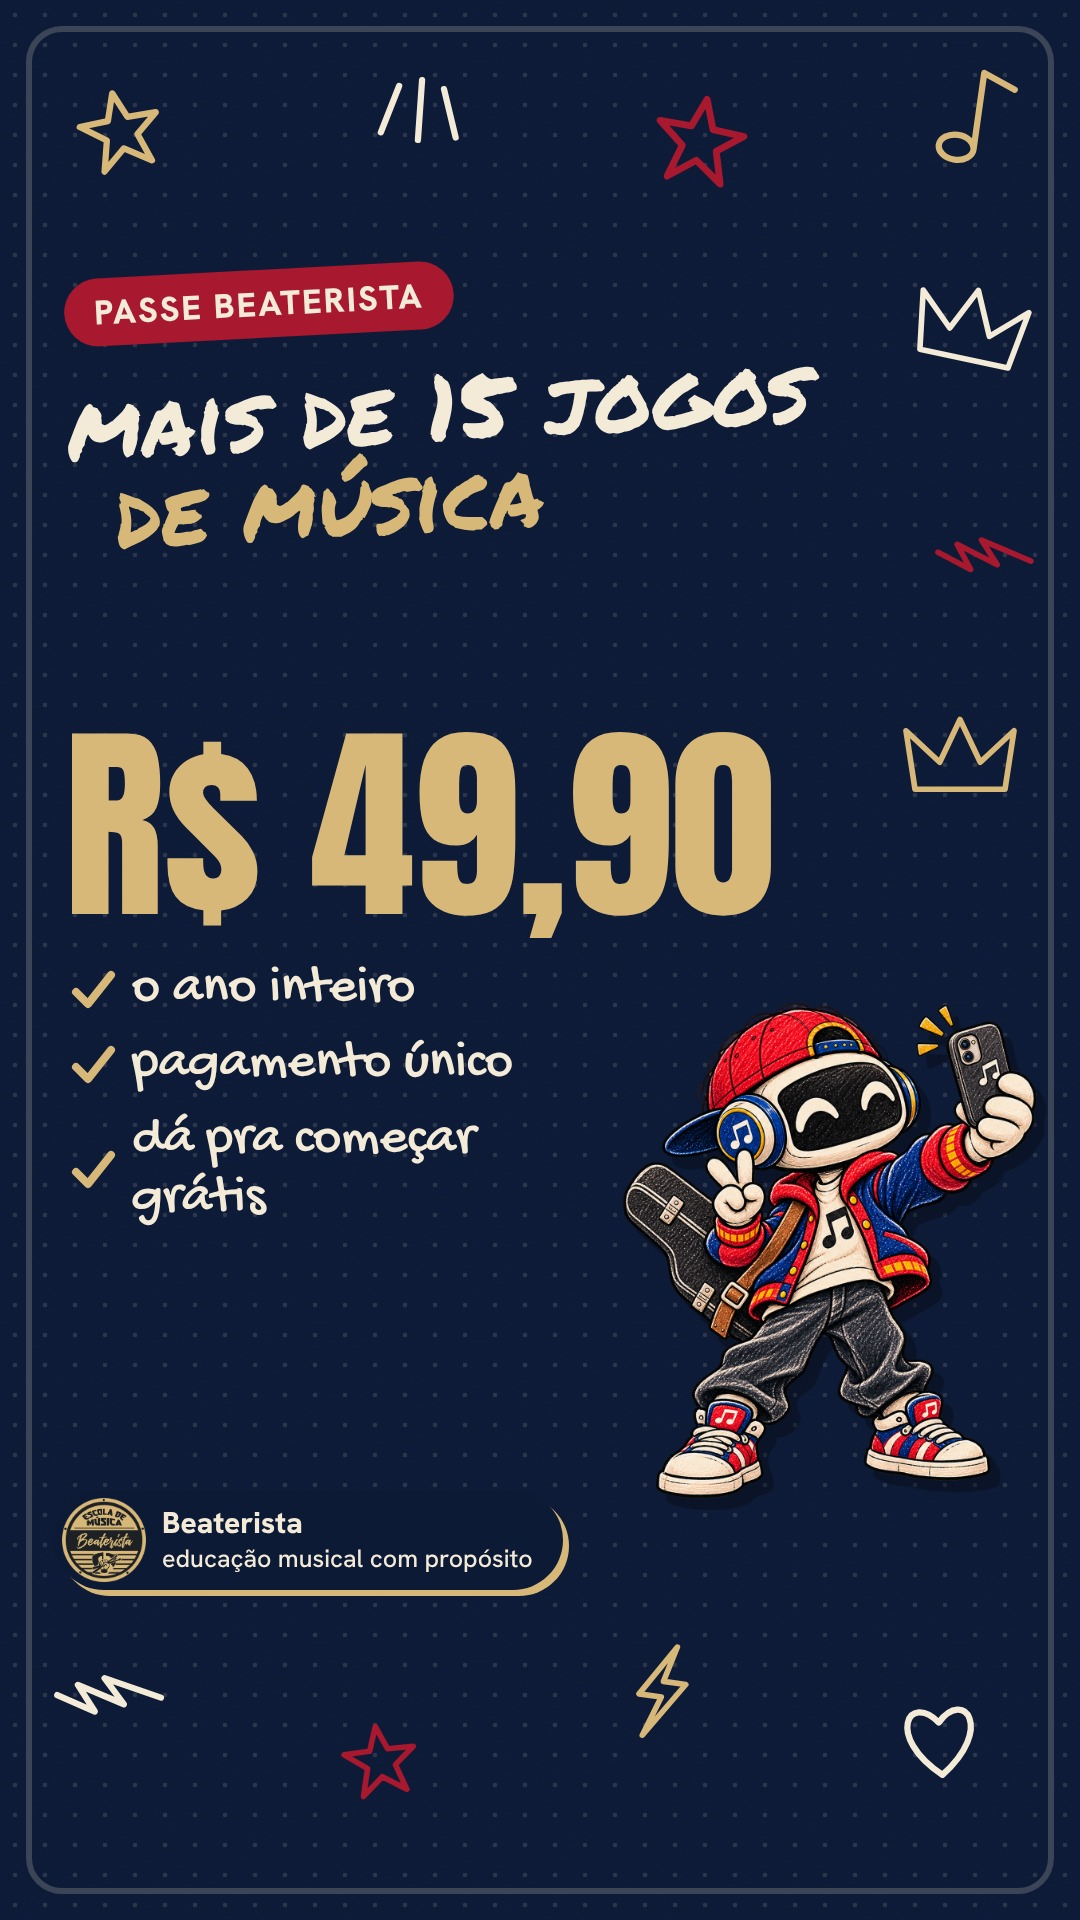
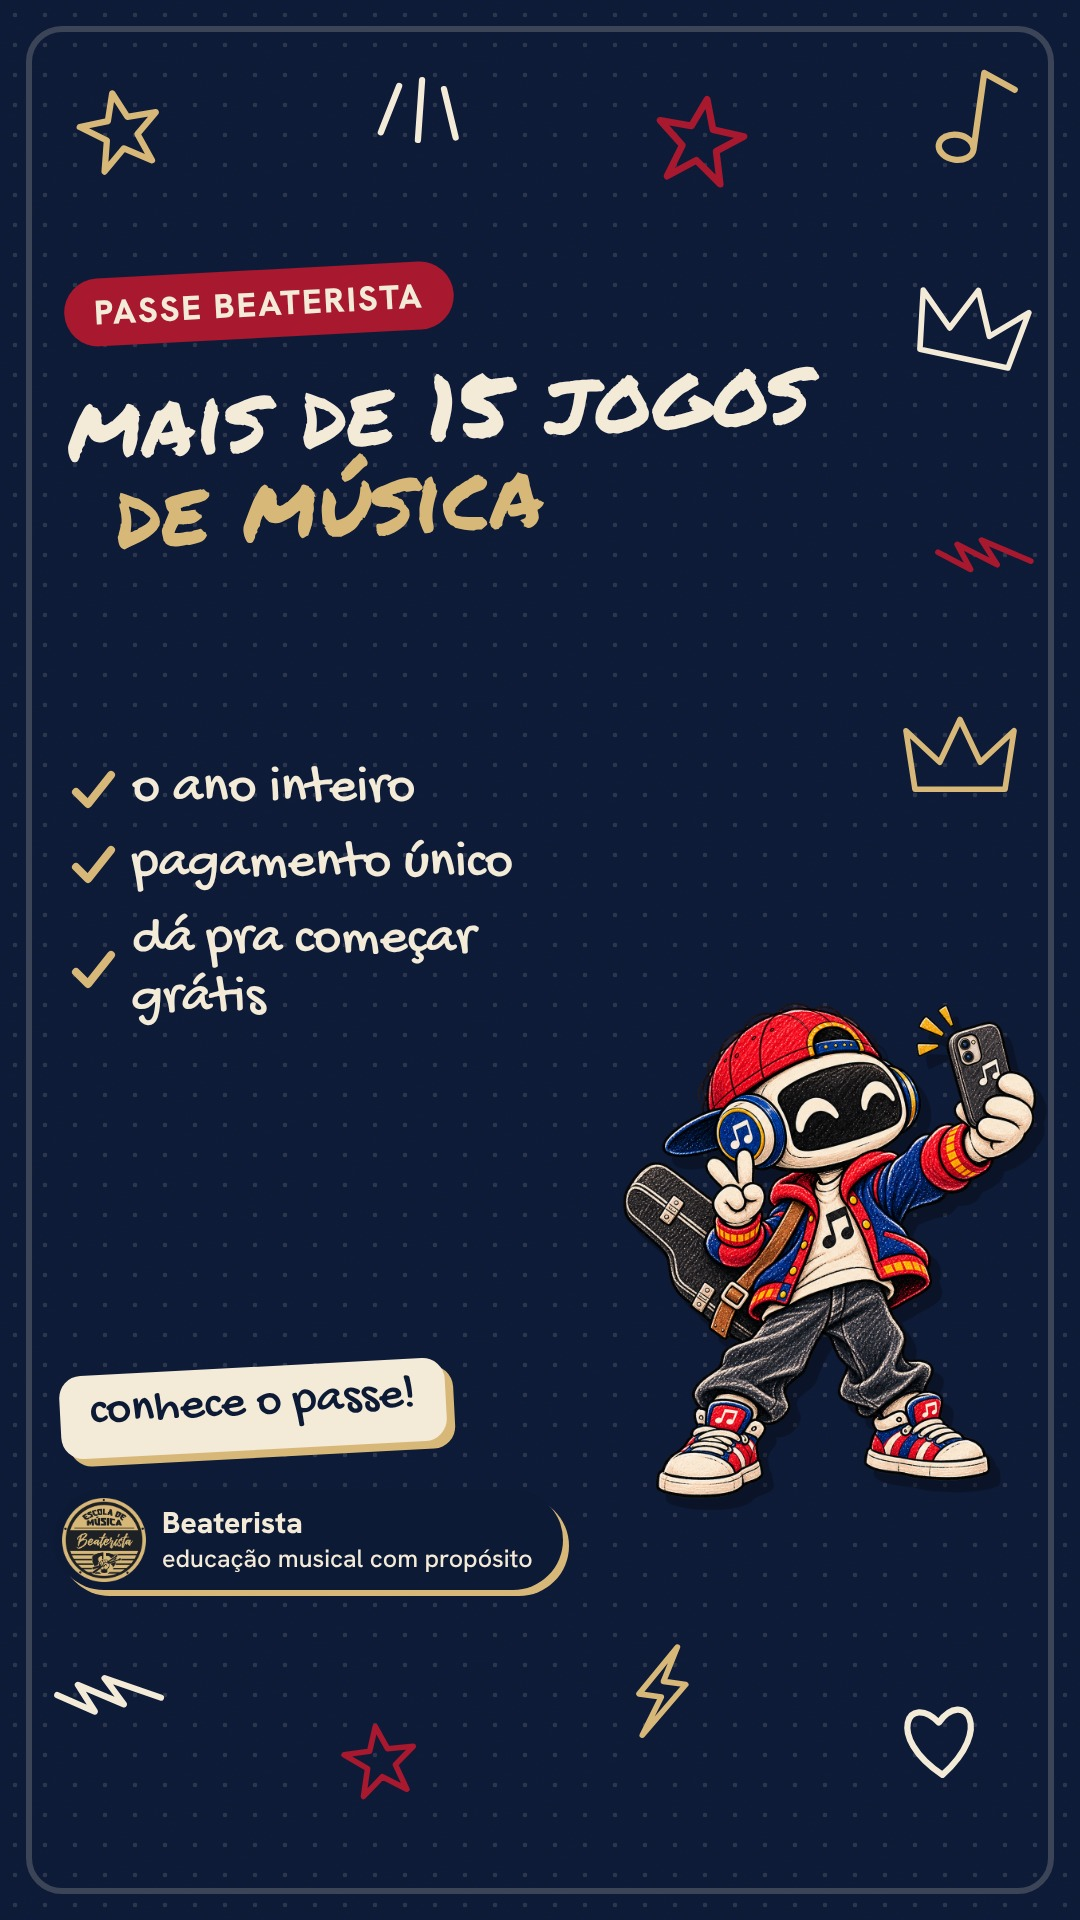
Reel 12 com cor natural (neutro); sem gibi, preço e data no kit e nos stories de venda
Claude-Session: https://claude.ai/code/session_017Ekti4WphxnBKQZ26FjJeN

Changed region(s): [[0.0611, 0.375, 0.7333, 0.6562], [0.0306, 0.6875, 0.4278, 0.7812]]

diff --git a/scripts/kit-perfil-jogos.py b/scripts/kit-perfil-jogos.py
@@ -23,13 +23,11 @@ DIAS = [
  ('lendo partitura brincando', [('reel', ['reels/12_achar_na_pauta.mp4'], 'seu filho lendo partitura. e achando que é jogo 🎼 começa grátis, link na bio.', '')]),
  ('o que tem no livro de colorir', [('post', ['colorir/colorir-post-2-o-que-tem.jpg'], 'o que tem no livro de colorir do paul? baterista, guitarrista, a banda inteira, percussão corporal e uma página pra você se desenhar na banda. 50 páginas, link na bio.', ''),
    ('story', ['colorir/colorir-story-2-pinte.jpg'], '', f'figurinha de link: {HOT}')]),
- ('o gibi do Paul', [('carrossel', car('gibi_carrossel', 7), 'o paul virou gibi 🥁 20 histórias em quadrinhos, 20 desafios da semana e uma página pra criança desenhar a dela. arrasta pra ler uma inteira. R$ 9,90, link na bio.', 'SÓ postar depois que o gibi estiver na Hotmart com o link na bio.'),
-   ('story', ['stories/story_gibi_1.jpg'], '', 'figurinha de link pro gibi.')]),
- ('apostila pela metade do preço', [('reel', ['reels/21_apostila_bateria_start.mp4'], 'a apostila do meu curso de bateria pela metade do preço: R$ 14,90, só até 30 de novembro. 44 páginas pra começar do zero. link na bio.', 'TEM PRAZO: postar até 30/nov. depois disso, pular este dia.'),
+ ('apostila pela metade do preço', [('reel', ['reels/21_apostila_bateria_start.mp4'], 'a apostila do meu curso de bateria: 44 páginas pra começar do zero. link na bio.', ''),
    ('story', ['stories/story_apostila_prazo.jpg'], '', 'figurinha de link pra apostila na lojinha.')]),
- ('o que tem no passe', [('carrossel', car('passe_carrossel', 7), 'o que tem dentro do passe beaterista? arrasta pra ver. R$ 49,90 por 12 meses, link na bio.', ''),
+ ('o que tem no passe', [('carrossel', car('passe_carrossel', 7), 'o que tem dentro do passe beaterista? arrasta pra ver. link na bio.', ''),
    ('story', ['stories/story_passe.jpg'], '', 'figurinha de link pro app.')]),
- ('combo de apostilas', [('reel', ['reels/14_combo_4_apostilas.mp4'], '4 apostilas pra aprender música brincando: ritmo, harmonia, 48 atividades e jogo da memória. combo por R$ 79,90, link na bio.', '')]),
+ ('combo de apostilas', [('reel', ['reels/14_combo_4_apostilas.mp4'], '4 apostilas pra aprender música brincando: ritmo, harmonia, 48 atividades e jogo da memória. tudo num combo só, link na bio.', '')]),
 ]
 # série "a Bea e a escola" (fotos novas) entra intercalada; a apostila sobe na fila por causa do prazo (30/nov)
 B = lambda n: [f'apresentacao/serie-bea/bea-{n}.jpg']
@@ -53,7 +51,7 @@ open(p0 + '/LEIA.txt', 'w').write("""PERFIL @jogos.beaterista: arrumar antes do 
    👇 jogue grátis e explore os materiais
 2. LINK DA BIO: jogos.beaterista.com.br
 3. DESTAQUES: criar com as capas da pasta "capas dos destaques" (o Instagram mostra só o círculo do meio).
-   ordem: o que é · jogos · pais · profs · álbum · lojinha · gibi
+   ordem: o que é · jogos · pais · profs · álbum · lojinha
 4. FIXADOS: os 3 posts de apresentação (dias 01, 02 e 03) ficam fixados no topo, nessa ordem.
 5. HORÁRIO: postar na hora em que seus seguidores estão online (Insights do Instagram ou "melhores horários" do Metricool).
 """)
@@ -85,10 +83,10 @@ h1{font-size:30pt;margin:0 0 4pt}h2{font-size:15pt;margin:0 0 6pt;color:#a8182e}
 .pc{display:flex;gap:5mm;margin-top:3mm}.pc img{width:26mm;border-radius:2mm;border:1pt solid #999;align-self:flex-start}.t{display:inline-block;background:#a8182e;color:#fff;border-radius:99px;padding:1pt 8pt;font-size:9.5pt;font-weight:700;text-transform:uppercase}
 .l{background:#f4ead8;border-radius:2mm;padding:3mm;margin:2mm 0;font-size:11pt}.o{font-size:10pt;color:#a8182e;font-weight:700}.a{font-size:9.5pt;color:#555}li{margin-bottom:2mm}.q{break-before:page}</style>
 <div class="capa"><p>KIT DO PERFIL</p><h1>@jogos.beaterista</h1><p>a ordem dos primeiros 18 dias: o que postar, em que sequência, com a legenda pronta.</p><p style="font-size:11pt;margin-top:20mm">Beaterista escola de música · jogos.beaterista.com.br</p></div>
-<div class="q"><h2>antes de postar</h2><ol><li><b>bio:</b> a sua já está boa (jogos musicais com o Robôterista Paul · aprenda na tela, depois mão na massa · jogue grátis e explore os materiais).</li><li><b>link da bio:</b> jogos.beaterista.com.br</li><li><b>destaques:</b> criar com as capas da pasta "00 - perfil". ordem: o que é · jogos · pais · profs · álbum · lojinha · gibi.</li><li><b>fixados:</b> os posts dos dias 01, 02 e 03 ficam fixados no topo. quem chega no perfil entende em 3 quadros: quem é o Paul, o que é a Beaterista e quem é você.</li><li><b>horário:</b> use os horários em que os seguidores estão online (Insights do Instagram ou "melhores horários" do Metricool).</li></ol>
-<h2>a lógica da ordem</h2><ol><li><b>dias 01 a 03, apresentação:</b> o Paul, a escola e a Bea. nada de venda.</li><li><b>dias 04 a 10, o que é e pra quem é:</b> o jogo funcionando, o lema da escola, o que cada jogo ensina, a história do nome. quase sem vender.</li><li><b>dias 11 a 18, os materiais:</b> livro de colorir, gibi, passe e combo, intercalados com posts seus (eu ensino o que eu toco, não é só bateria).</li></ol>
+<div class="q"><h2>antes de postar</h2><ol><li><b>bio:</b> a sua já está boa (jogos musicais com o Robôterista Paul · aprenda na tela, depois mão na massa · jogue grátis e explore os materiais).</li><li><b>link da bio:</b> jogos.beaterista.com.br</li><li><b>destaques:</b> criar com as capas da pasta "00 - perfil". ordem: o que é · jogos · pais · profs · álbum · lojinha.</li><li><b>fixados:</b> os posts dos dias 01, 02 e 03 ficam fixados no topo. quem chega no perfil entende em 3 quadros: quem é o Paul, o que é a Beaterista e quem é você.</li><li><b>horário:</b> use os horários em que os seguidores estão online (Insights do Instagram ou "melhores horários" do Metricool).</li></ol>
+<h2>a lógica da ordem</h2><ol><li><b>dias 01 a 03, apresentação:</b> o Paul, a escola e a Bea. nada de venda.</li><li><b>dias 04 a 10, o que é e pra quem é:</b> o jogo funcionando, o lema da escola, o que cada jogo ensina, a história do nome. quase sem vender.</li><li><b>dias 11 em diante, os materiais:</b> livro de colorir, apostila, passe e combo, intercalados com posts seus (eu ensino o que eu toco, não é só bateria).</li></ol>
 <h2>como usar o zip</h2><p>cada pasta é um dia. dentro, os arquivos estão numerados na ordem de postar e o <b>LEGENDA.txt</b> traz o texto pronto pra copiar. carrossel: subir as imagens na ordem dos números.</p>
-<h2>avisos</h2><ul><li><b>dia 15 (gibi):</b> só depois de o gibi estar na Hotmart.</li><li><b>dia 07 (apostila):</b> a promoção vale até 30/nov, por isso ela vem cedo na fila.</li><li><b>livro de colorir:</b> o link direto é ''' + HOT + '''</li><li>a conta está com restrição temporária pra conectar aplicativos: enquanto isso, postar na mão. os posts em si não são afetados.</li></ul></div><div class="q"></div>''']
+<h2>avisos</h2><ul><li>sem preço e sem data em nenhuma peça (pedido da Bea); o gibi/jornal não entra no kit.</li><li><b>livro de colorir:</b> o link direto é ''' + HOT + '''</li><li>a conta está com restrição temporária pra conectar aplicativos: enquanto isso, postar na mão. os posts em si não são afetados.</li></ul></div><div class="q"></div>''']
 for i, tit, cel in linhas:
     H.append(f'<div class="d"><div class="n">dia {i:02d} · {e(tit)}</div>')
     for tipo, nomes, texto, obs, m in cel:

diff --git a/PASSAGEM.md b/PASSAGEM.md
@@ -792,3 +792,4 @@ No ar em jogos.beaterista.com.br: aba Estudos, Tocar com 4 instrumentos, figuras
 - **Revisão de precisão (Bea, 15/nov)**: antes de entregar, olhar TODOS os posts: (1) o assunto do título tem que aparecer (não deixar o gradiente da foto cheia cobrir: se o assunto fica na parte de baixo, usar polaroid/gibi); (2) cortar lixeira, tripé, bagunça, bebê/criança que não é o assunto; (3) não chamar de "aula" o que é show; (4) nunca cortar cabeça; (5) foto fraca: zoom + cor mais viva/vinheta.
 - **Reels SEM SOM** (Bea, 15/nov): saem mudos; ela põe o áudio ao postar (`COM_SOM=1` devolve a batida). Revisão obrigatória: 1 quadro a cada 2 s de cada reel antes de entregar; trocar `'auto'` por tempo fixo quando o corte cair em borrão, perna ou close cortado; luz/parede laranja → outro trecho, `crop` ou `frio: true`.
 - **Reels antigos na identidade nova (Bea, 15/nov)**: paleta é só **dourado do logo, azul, branco/creme e vermelho** (nada de amarelo-alaranjado). Os 28 antigos (`marketing/prontos/reels/`) serão refeitos pelo `reels-aula.mjs` a partir das **cópias leves** (720p) da pasta "vídeos pra stories e reels" do Drive (o MCP baixa até ~10 MB; os brutos .MOV passam disso). Prontos de teste: `antigo-04-parece-so-joguinho` e `antigo-12-achar-na-pauta`. **Cuidado**: a pasta dos brutos só pode ter os vídeos (um .jpg com o mesmo nome fez o montador pegar a imagem). Vídeo com parede amarela: `cinza: true` (tom azul-acinzentado).
+- **REGRAS DA BEA (15/nov, valem pra TUDO)**: (1) **sem o gibi/Jornal**: não fazer nem postar peça do gibi (reels 27 e 28, carrossel e stories do gibi); (2) **sem PREÇO e sem DATA** em nenhuma peça (nada de R$, 'até 30/nov', 'só hoje'); a apostila em promoção e o passe/combo falam só do conteúdo; (3) vídeo com parede amarela: `neutro: true` (cor natural), nunca azulado/cinza.
